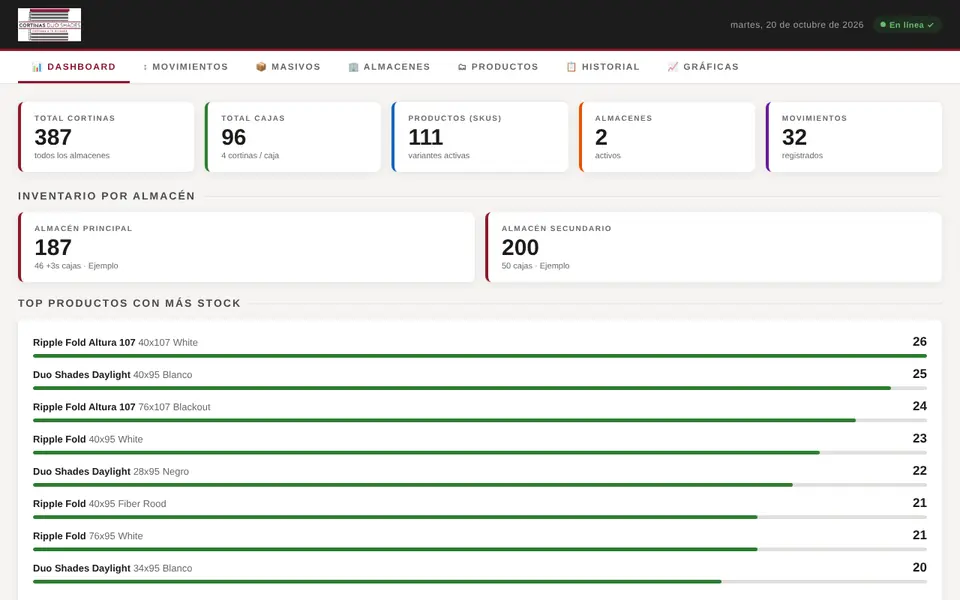
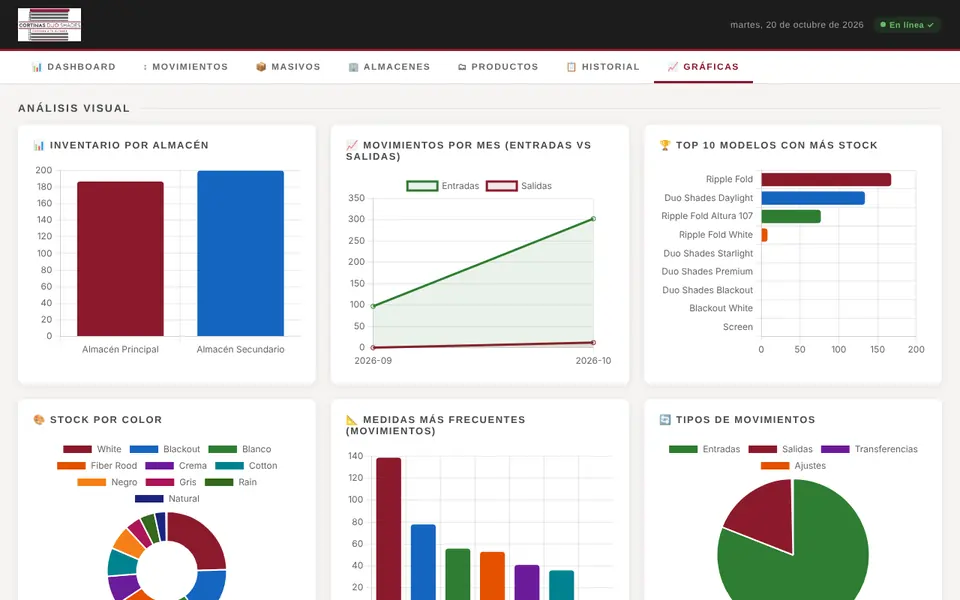
Trabajos: Jaeloo_Cuts, inventario con graficas y Tomorrowland solo con capturas (sin enlace)
Claude-Session: https://claude.ai/code/session_01Tusy7pWP9FWspNUyzdpftN

diff --git a/ascent-site/src/sections/Trabajos.tsx b/ascent-site/src/sections/Trabajos.tsx
@@ -2,7 +2,17 @@ import { Reveal } from '@/components/Reveal'
 import { SplitText } from '@/components/motion/SplitText'
 import { COPY } from '@/content'
 
-type Trabajo = (typeof COPY.trabajos.items)[number]
+interface Trabajo {
+  nombre: string
+  linea: string
+  paquete: string
+  demo: boolean
+  url: string
+  urlTexto?: string
+  desktop: string
+  movil: string
+  alt: string
+}
 
 function Ventana({ t }: { t: Trabajo }) {
   return (
@@ -10,7 +20,7 @@ function Ventana({ t }: { t: Trabajo }) {
       <div data-ui className="overflow-hidden rounded-2xl border border-white/15 bg-[#050d1c] shadow-[0_30px_80px_-24px_rgb(0_0_0/0.8)]">
         <div className="flex items-center gap-1.5 bg-[#0a1a36] px-3 py-2">
           <span className="size-2 rounded-full bg-white/25" /><span className="size-2 rounded-full bg-white/25" /><span className="size-2 rounded-full bg-white/25" />
-          {t.url && <span className="mx-auto w-3/5 truncate rounded-full bg-white/10 px-3 py-0.5 text-center text-[10px] text-white/70">{t.url}</span>}
+          {(t.urlTexto ?? t.url) && <span className="mx-auto w-3/5 truncate rounded-full bg-white/10 px-3 py-0.5 text-center text-[10px] text-white/70">{t.urlTexto ?? t.url}</span>}
         </div>
         <img src={t.desktop} alt={t.alt} width={960} height={600} loading="lazy" decoding="async" className="aspect-[16/10] w-full object-cover object-top" />
       </div>
@@ -58,7 +68,7 @@ export function Trabajos() {
         <SplitText as="h2" text={COPY.trabajos.title} className="display-lg" accent={['Trabajos']} />
         <p className="mt-6 max-w-xl text-lg text-white/70">{COPY.trabajos.sub}</p>
         <div className="mt-20 flex flex-col gap-28 sm:gap-36">
-          {COPY.trabajos.items.map((t, i) => <Tarjeta key={t.nombre} t={t} flip={i % 2 === 1} />)}
+          {(COPY.trabajos.items as ReadonlyArray<Trabajo>).map((t, i) => <Tarjeta key={t.nombre} t={t} flip={i % 2 === 1} />)}
         </div>
       </div>
     </section>

diff --git a/ascent-site/src/trabajos-pendientes.ts b/ascent-site/src/trabajos-pendientes.ts
@@ -11,22 +11,11 @@ interface Trabajo {
 }
 
 /**
- * Trabajos de clientes que esperan permiso (hoy: solo la invitación Tomorrowland, falta que Carina diga que sí). NO se importan en ningún componente a propósito:
+ * Trabajos de clientes que esperan permiso (hoy no hay ninguno). NO se importan en ningún componente a propósito:
  * así ni la dirección ni el texto entran al código publicado.
  *
  * Para publicar uno cuando la persona diga que sí:
  * 1. Mover su captura de `trabajos-pendientes/` a `public/trabajos/`.
  * 2. Copiar el bloque a `COPY.trabajos.items` en `src/content.ts` y borrarlo de aquí.
  */
-export const TRABAJOS_PENDIENTES: Trabajo[] = [
-  {
-    nombre: 'Invitación Tomorrowland',
-    linea: 'Invitación en formato Stories con DJs en video y confirmación de asistencia.',
-    paquete: 'A medida',
-    demo: false,
-    url: 'carinatomorrowland.netlify.app',
-    desktop: '/trabajos/tomorrowland-desktop.webp',
-    movil: '/trabajos/tomorrowland-movil.webp',
-    alt: 'Pantalla de entrada de una invitación interactiva con tema Tomorrowland.',
-  },
-]
+export const TRABAJOS_PENDIENTES: Trabajo[] = []

diff --git a/ascent-site/src/content.ts b/ascent-site/src/content.ts
@@ -110,7 +110,8 @@ export const COPY = {
         alt: 'Página web de Cortinas Duo Home Fine con botón de cotizar por WhatsApp.',
       },
       {
-        nombre: 'Jaeloo Cuts',
+        nombre: 'Jaeloo_Cuts',
+        urlTexto: 'Jaeloo_Cuts',
         linea: 'Barbería en Caguas. El cliente aparta su cita en cinco pasos, en el local o a domicilio.',
         paquete: 'Sitio web con agenda',
         demo: false,
@@ -148,6 +149,16 @@ export const COPY = {
         desktop: '/trabajos/siuliris-desktop.webp',
         movil: '/trabajos/siuliris-movil.webp',
         alt: 'Pantalla de entrada de una invitación de cumpleaños interactiva.',
+      },
+      {
+        nombre: 'Invitación Tomorrowland',
+        linea: 'Invitación en formato Stories con DJs en video y confirmación de asistencia.',
+        paquete: 'A medida',
+        demo: false,
+        url: '',
+        desktop: '/trabajos/tomorrowland-desktop.webp',
+        movil: '/trabajos/tomorrowland-movil.webp',
+        alt: 'Pantalla de entrada de una invitación interactiva con tema Tomorrowland.',
       },
     ],
   },
